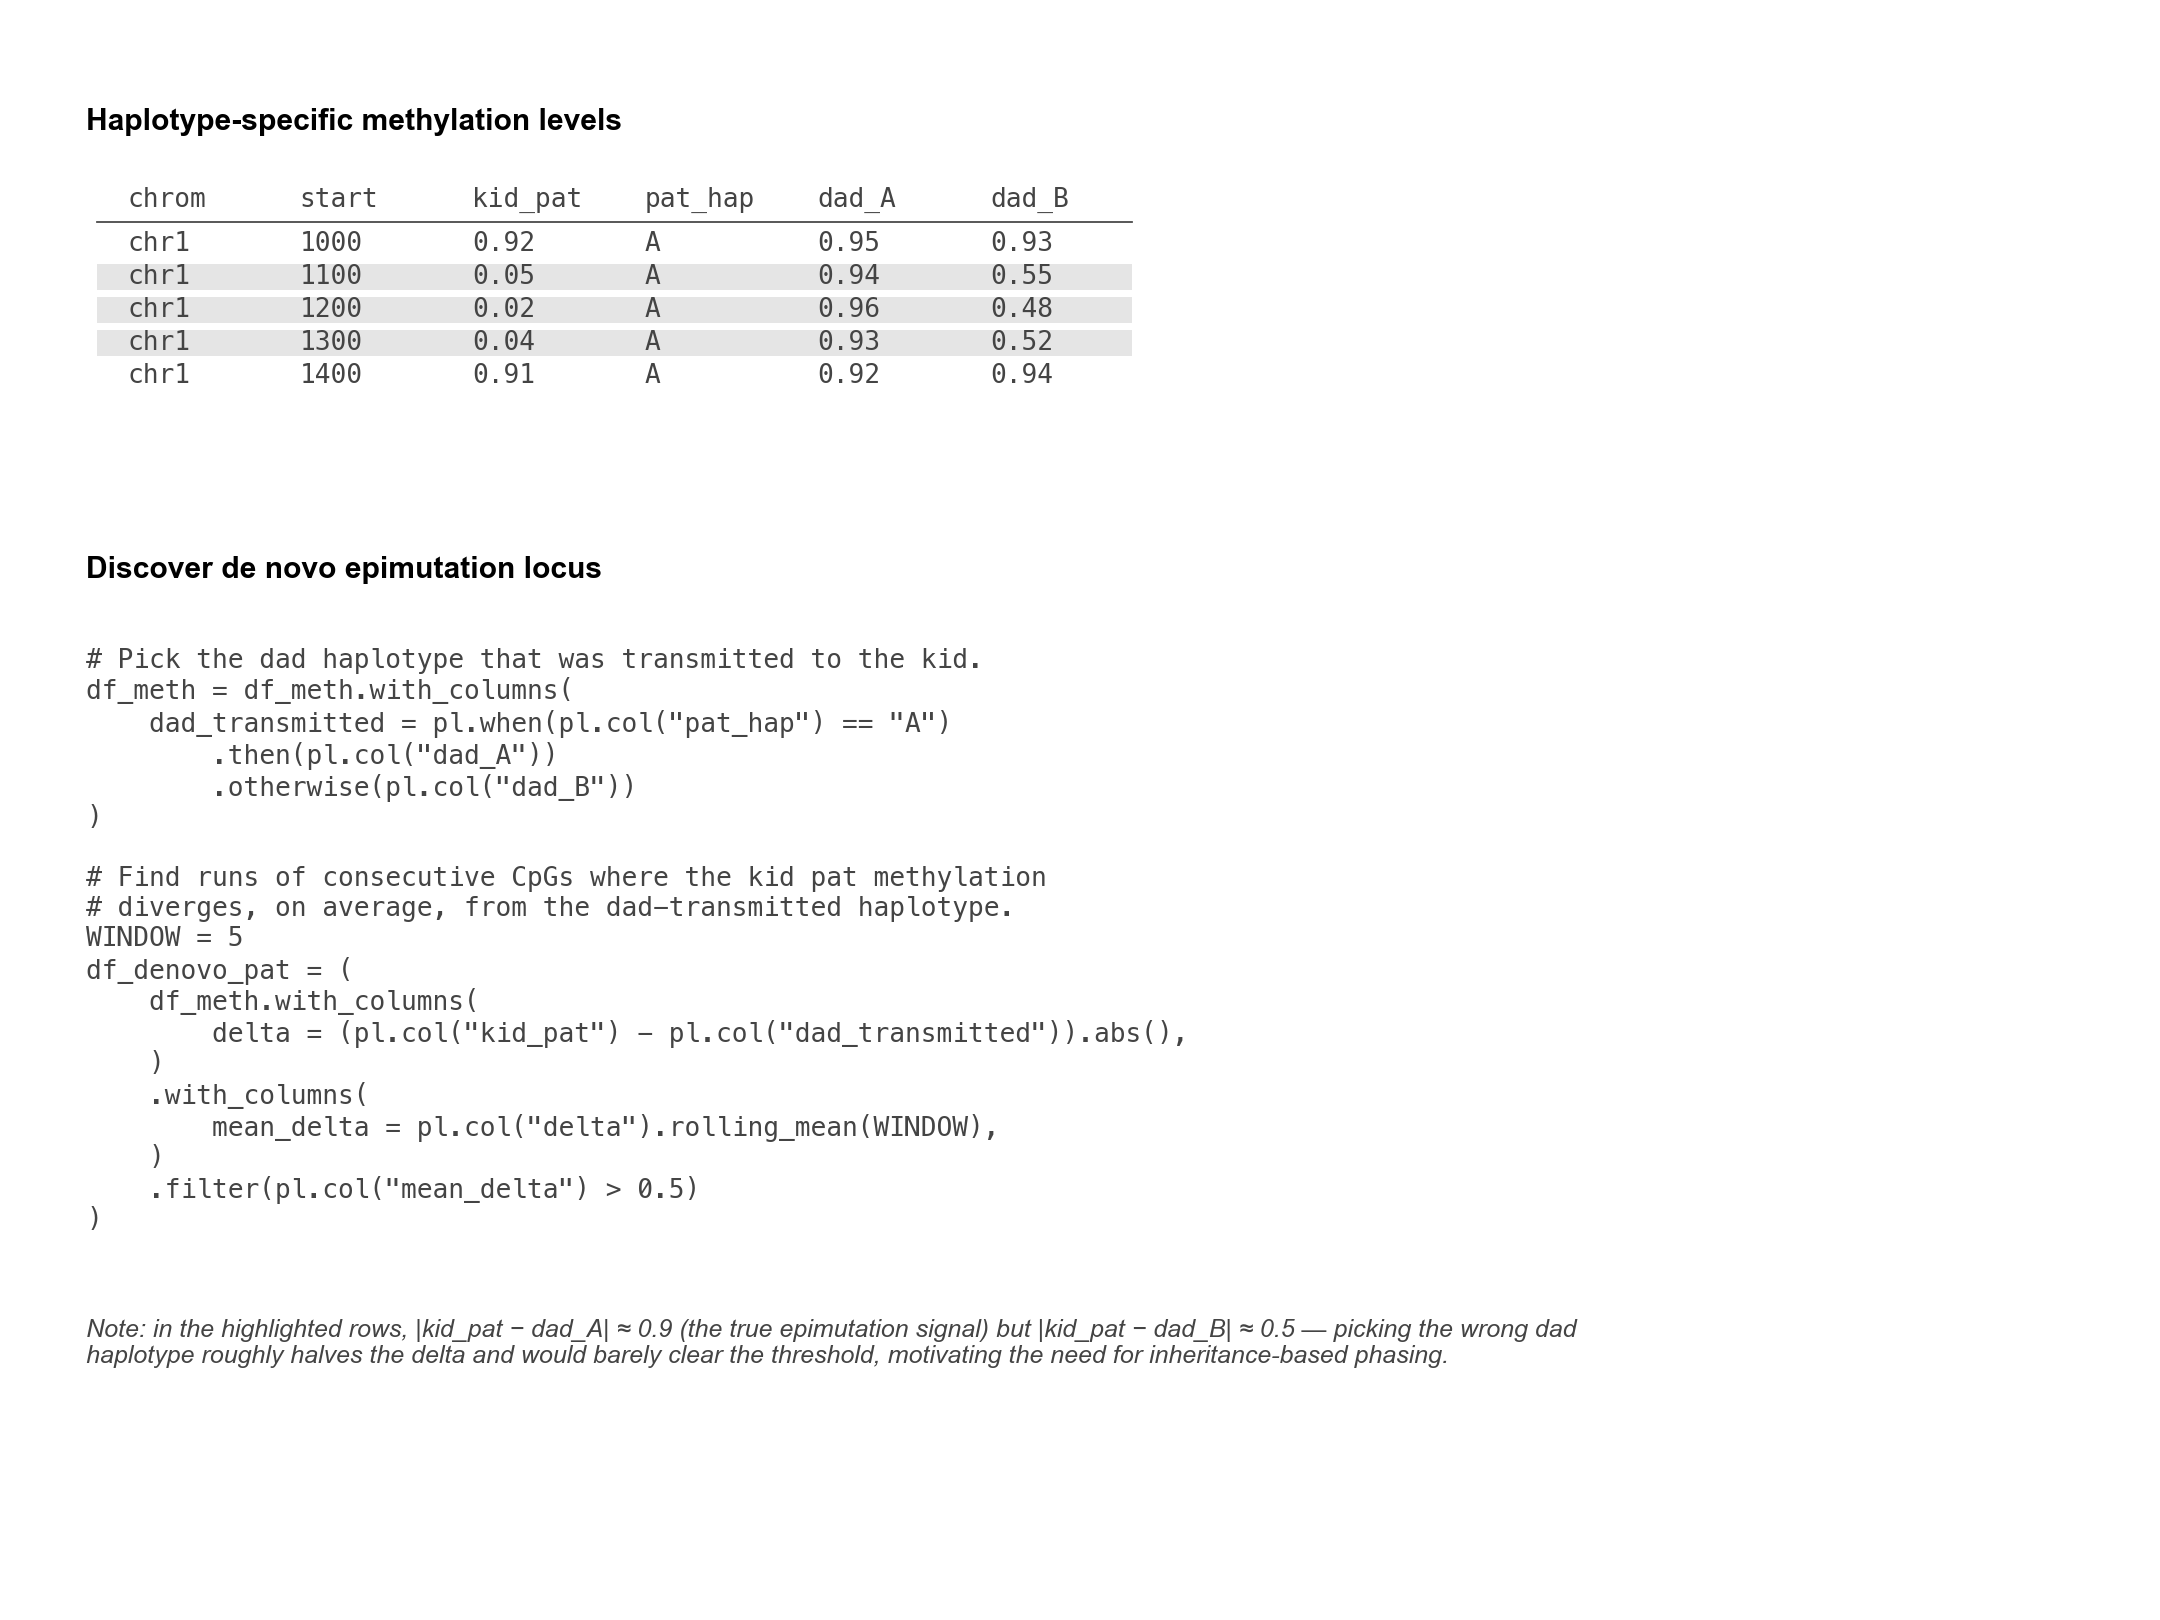
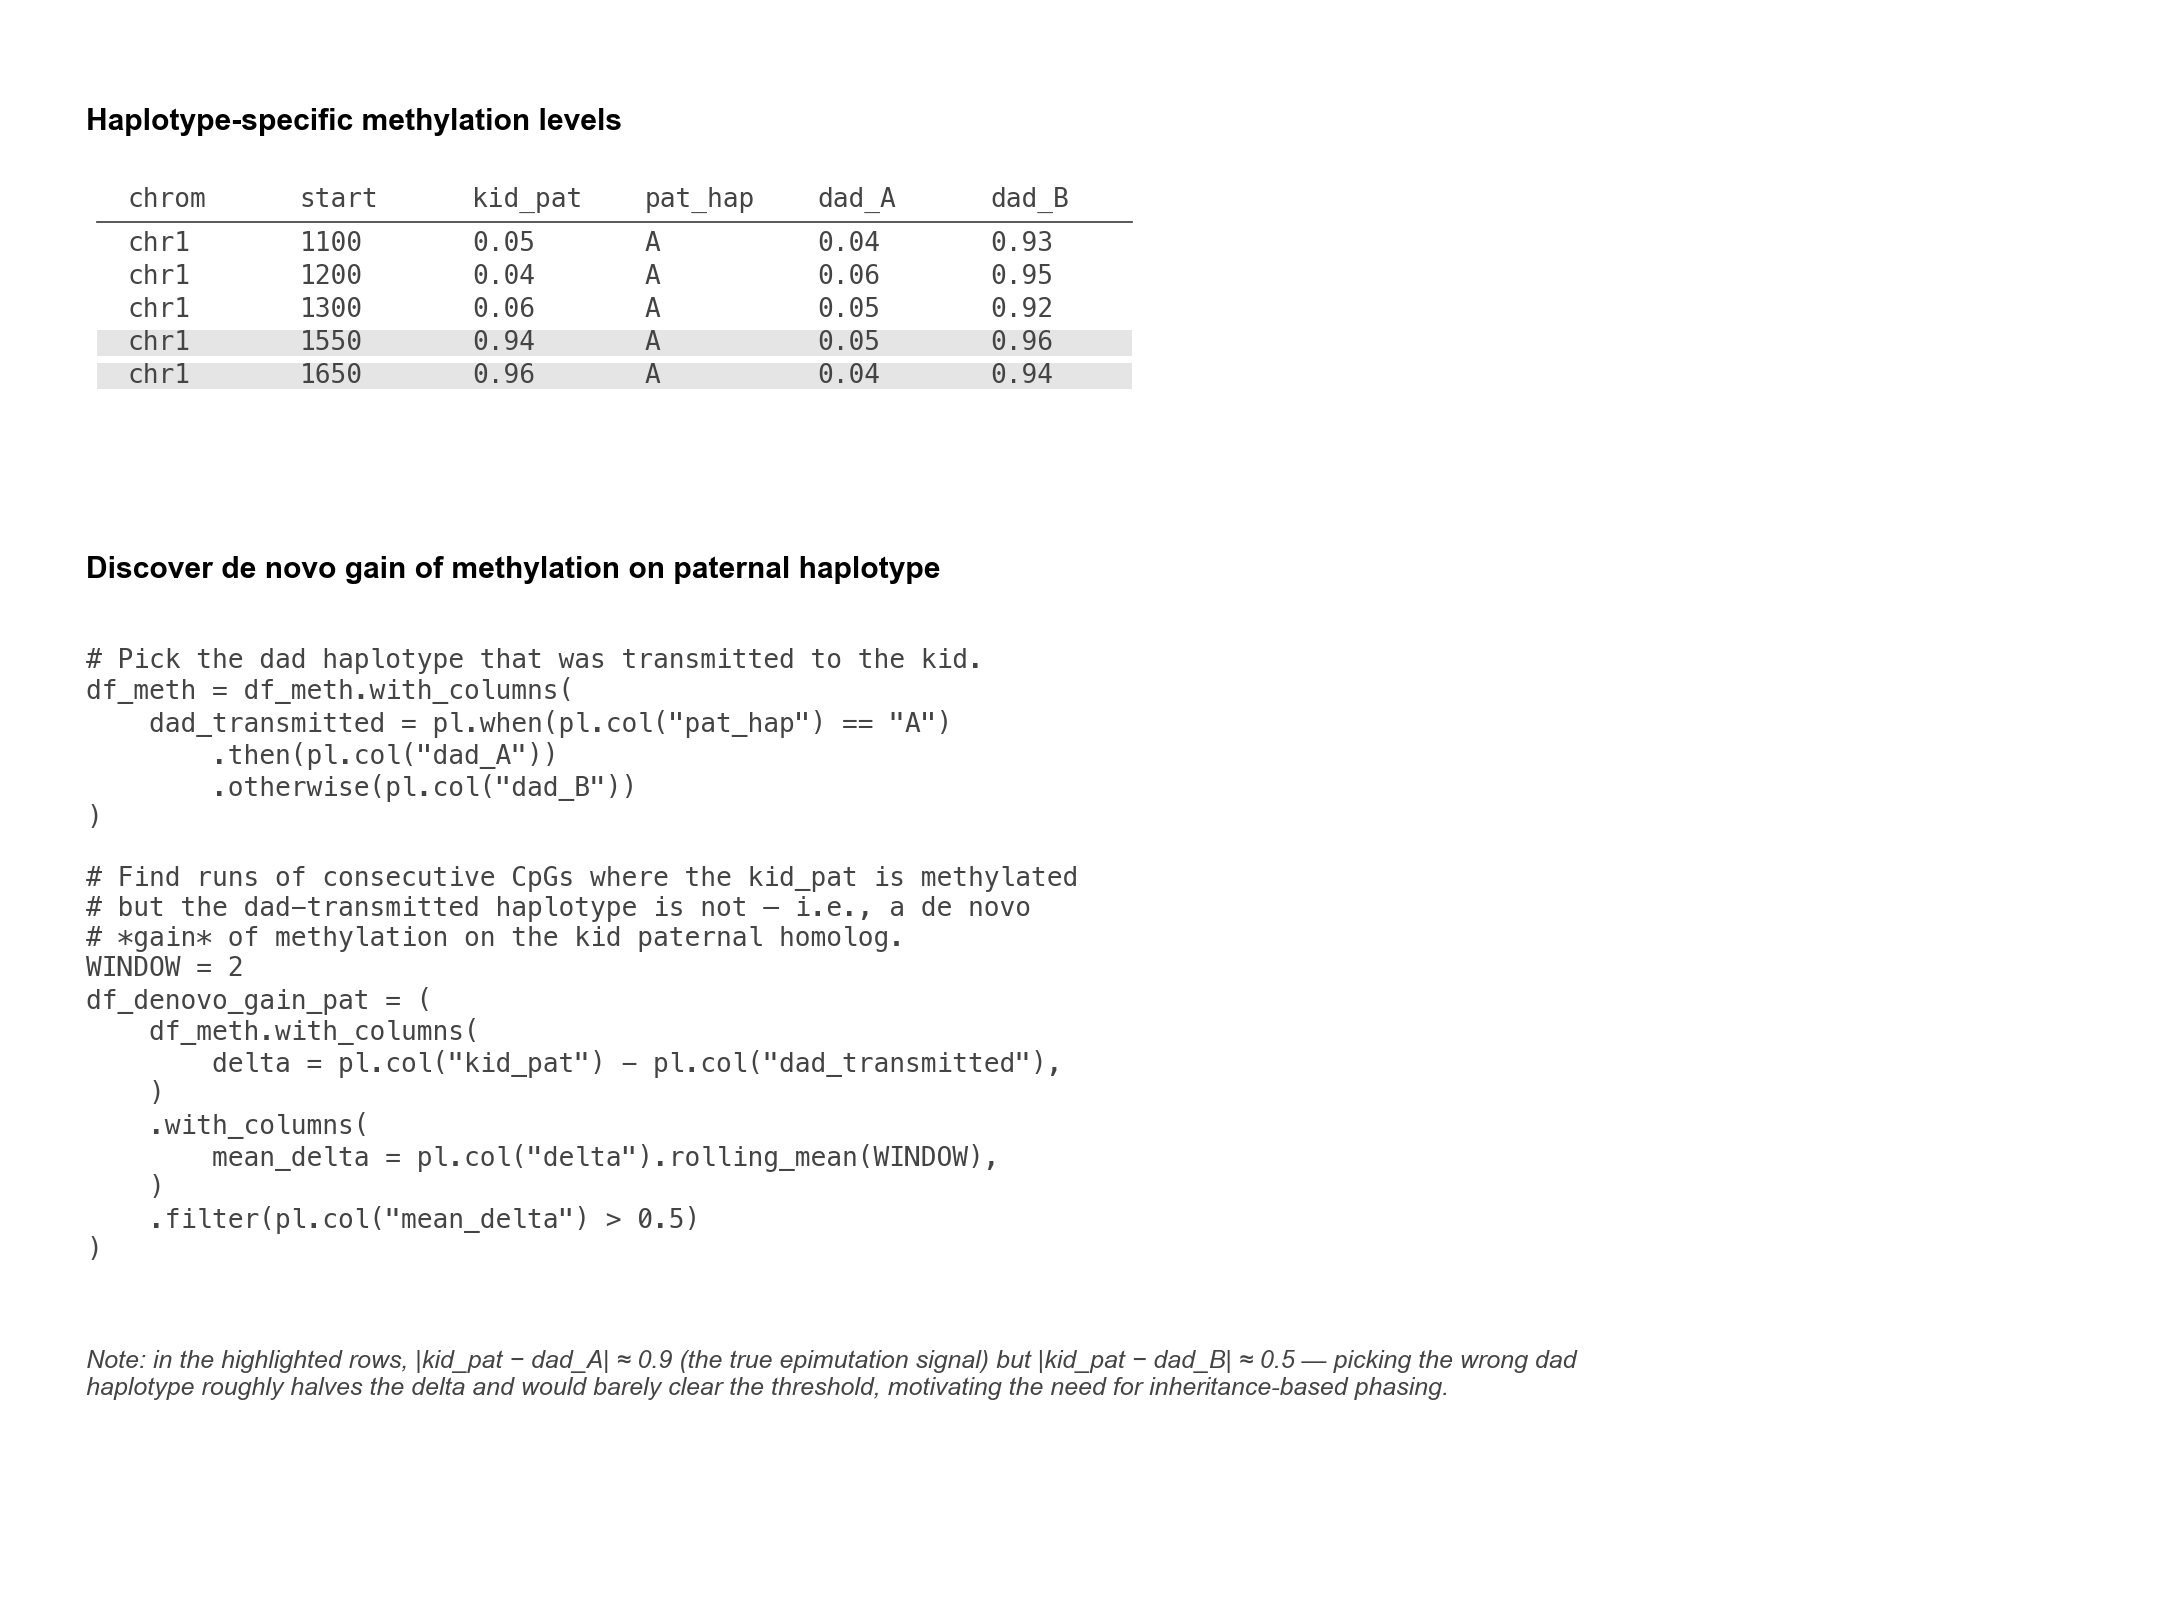
Wiki: realign de novo discovery panel + polars query with the SVG scenario
Two coupled changes to wiki/motivation/trio_discovery.py and the
prose in generate_wiki.py:

1. BED table coordinates and methylation levels now mirror the
   trio_denovo SVG. Rows: 1100 / 1200 / 1300 (left CpG cluster,
   concordant unmethylated) and 1550 / 1650 (right cluster, de novo
   gain). dad_A ~0.05, dad_B ~0.94, kid_pat ~0.05 in the left cluster
   and ~0.95 in the right cluster. Highlighted rows shifted to
   {3, 4} (the right-cluster rows where the de novo signal lives).

2. Polars query specialized to discover the *gain* on the paternal
   homolog specifically:
   - delta = kid_pat - dad_transmitted (signed, not abs).
   - filter mean_delta > 0.5 fires only on a positive gain.
   - WINDOW lowered from 5 to 2 so the 2-CpG right cluster passes the
     rolling mean.
   - Output renamed df_denovo_gain_pat.
   - Panel title: "Discover de novo gain of methylation on paternal
     haplotype".
   - Markdown narrative explains how to mirror the sign and column
     choice to surface losses or maternal-side events.

diff --git a/wiki/motivation/trio_discovery.py b/wiki/motivation/trio_discovery.py
@@ -240,17 +240,24 @@ def render_trio_denovo_bed():
     ax_code = add_axes_in(LEFT_IN, ax_code_top_in - code_h_in, width_in, code_h_in)
 
     cols = ("chrom", "start", "kid_pat", "pat_hap", "dad_A", "dad_B")
+    # CpG genomic coordinates mirror KID_RELS in the trio_denovo SVG:
+    #   left cluster of 3 CpGs at 1100 / 1200 / 1300 (concordant
+    #     unmethylated on dad_A → kid_pat),
+    #   right cluster of 2 CpGs at 1550 / 1650 (de novo gain — kid_pat
+    #     methylated where dad_A is not).
+    # dad_B is the non-transmitted, fully methylated homolog.
+    # Methylation levels jittered around the SVG values for realism.
     rows = [
-        ("chr1", "1000", "0.92", "A", "0.95", "0.93"),
-        ("chr1", "1100", "0.05", "A", "0.94", "0.55"),
-        ("chr1", "1200", "0.02", "A", "0.96", "0.48"),
-        ("chr1", "1300", "0.04", "A", "0.93", "0.52"),
-        ("chr1", "1400", "0.91", "A", "0.92", "0.94"),
+        ("chr1", "1100", "0.05", "A", "0.04", "0.93"),
+        ("chr1", "1200", "0.04", "A", "0.06", "0.95"),
+        ("chr1", "1300", "0.06", "A", "0.05", "0.92"),
+        ("chr1", "1550", "0.94", "A", "0.05", "0.96"),
+        ("chr1", "1650", "0.96", "A", "0.04", "0.94"),
     ]
     _draw_simple_table(
         ax_meth, cols, rows,
         title="Haplotype-specific methylation levels",
-        highlight_rows={1, 2, 3},
+        highlight_rows={3, 4},
         bottom_rule=False,
     )
 
@@ -262,7 +269,7 @@ def render_trio_denovo_bed():
     code_y = CODE_TITLE_Y - CODE_TITLE_TO_CODE_IN / code_h_in
     ax_code.text(
         0.0, CODE_TITLE_Y,
-        "Discover de novo epimutation locus",
+        "Discover de novo gain of methylation on paternal haplotype",
         ha="left", va="top", fontsize=12, fontweight="bold",
         transform=ax_code.transAxes,
     )
@@ -276,12 +283,13 @@ def render_trio_denovo_bed():
         '        .otherwise(pl.col("dad_B"))\n'
         ')\n'
         '\n'
-        '# Find runs of consecutive CpGs where the kid pat methylation\n'
-        '# diverges, on average, from the dad-transmitted haplotype.\n'
-        'WINDOW = 5\n'
-        'df_denovo_pat = (\n'
+        '# Find runs of consecutive CpGs where the kid_pat is methylated\n'
+        '# but the dad-transmitted haplotype is not — i.e., a de novo\n'
+        '# *gain* of methylation on the kid paternal homolog.\n'
+        'WINDOW = 2\n'
+        'df_denovo_gain_pat = (\n'
         '    df_meth.with_columns(\n'
-        '        delta = (pl.col("kid_pat") - pl.col("dad_transmitted")).abs(),\n'
+        '        delta = pl.col("kid_pat") - pl.col("dad_transmitted"),\n'
         '    )\n'
         '    .with_columns(\n'
         '        mean_delta = pl.col("delta").rolling_mean(WINDOW),\n'

diff --git a/wiki/generate_wiki.py b/wiki/generate_wiki.py
@@ -106,10 +106,13 @@ kid).
 ![Trio de novo BED + polars](trio_denovo_bed.png)
 
 Once tapestry produces a per-CpG haplotype-resolved BED, surfacing
-de novo epimutations is a one-pass polars filter: pick the dad
-haplotype that was transmitted to the kid (using the `pat_hap` phasing
-column), then keep CpGs where `kid_pat` methylation diverges, on
-average over a small window, from the dad-transmitted haplotype.
+the de novo gain of methylation on the kid's paternal hap is a
+one-pass polars filter: pick the dad haplotype that was transmitted
+to the kid (using the `pat_hap` phasing column), then keep CpGs where
+`kid_pat - dad_transmitted` is *positive* on average over a small
+window. Mirror the filter sign to surface a de novo *loss*; mirror
+both the column choice (`mat_hap`/`mom_C`/`mom_D`) and the sign to
+surface either de novo direction on the maternal side.
 
 ## Trio use case 2: compound genetic-epigenetic heterozygote
 

diff --git a/wiki/motivation/motivation.md b/wiki/motivation/motivation.md
@@ -69,10 +69,13 @@ kid).
 ![Trio de novo BED + polars](trio_denovo_bed.png)
 
 Once tapestry produces a per-CpG haplotype-resolved BED, surfacing
-de novo epimutations is a one-pass polars filter: pick the dad
-haplotype that was transmitted to the kid (using the `pat_hap` phasing
-column), then keep CpGs where `kid_pat` methylation diverges, on
-average over a small window, from the dad-transmitted haplotype.
+the de novo gain of methylation on the kid's paternal hap is a
+one-pass polars filter: pick the dad haplotype that was transmitted
+to the kid (using the `pat_hap` phasing column), then keep CpGs where
+`kid_pat - dad_transmitted` is *positive* on average over a small
+window. Mirror the filter sign to surface a de novo *loss*; mirror
+both the column choice (`mat_hap`/`mom_C`/`mom_D`) and the sign to
+surface either de novo direction on the maternal side.
 
 ## Trio use case 2: compound genetic-epigenetic heterozygote
 
